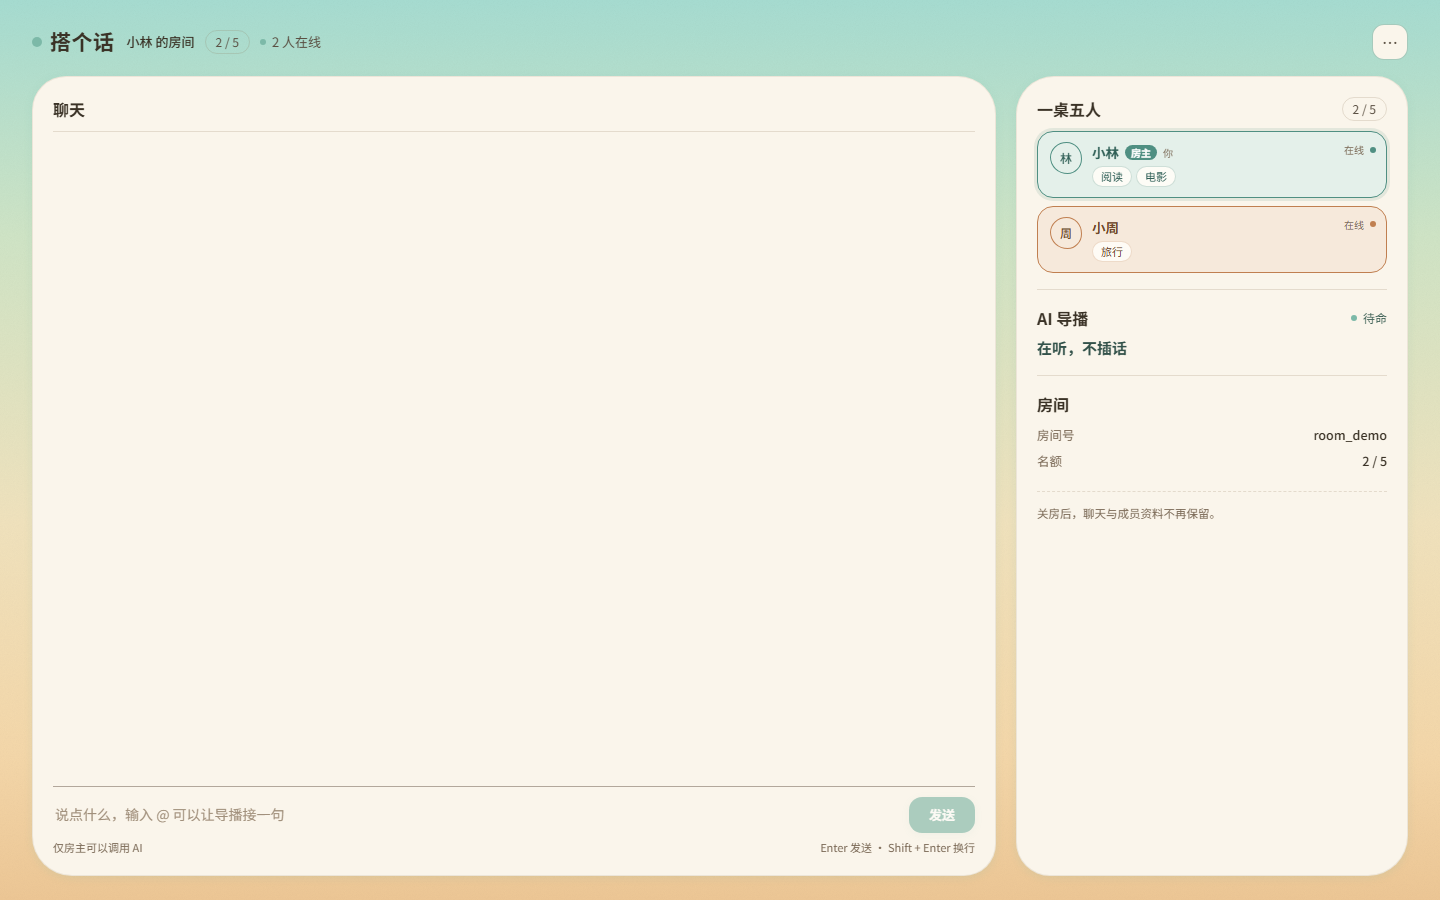
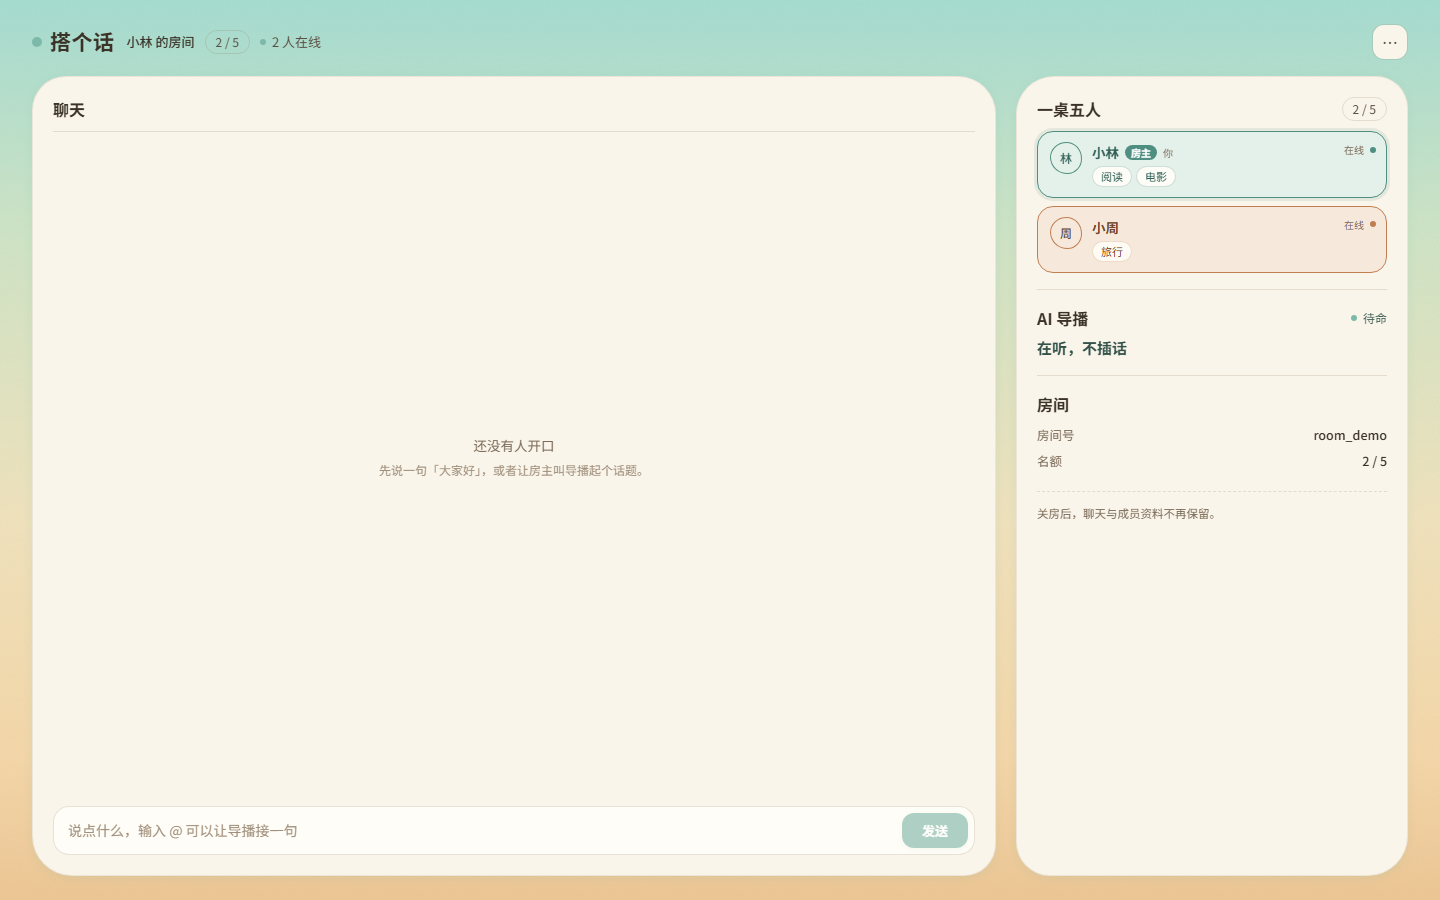
feat(frontend): 输入区加边框容器，去掉底部提示行

Changed region(s): [[0.0312, 0.8711, 0.2188, 0.9644], [0.5625, 0.8711, 0.6875, 0.9644], [0.25, 0.4667, 0.4375, 0.5289]]

diff --git a/frontend/src/features/chat/Composer.tsx b/frontend/src/features/chat/Composer.tsx
@@ -50,7 +50,7 @@ export function Composer({ canMention, disabled, onSend }: ComposerProps) {
         </button>
       )}
 
-      <div className="flex items-center gap-2 border-t-[1.5px] border-[rgba(90,74,58,.45)] pt-2.5">
+      <div className="mt-3 flex items-center gap-2 rounded-[16px] border-[1.5px] border-rule bg-card py-1.5 pl-3.5 pr-1.5 transition-shadow focus-within:border-[rgba(96,166,150,.7)] focus-within:shadow-[0_0_0_4px_rgba(124,185,168,.14)]">
         <input
           ref={inputRef}
           value={value}
@@ -63,21 +63,16 @@ export function Composer({ canMention, disabled, onSend }: ComposerProps) {
             }
           }}
           placeholder={canMention ? '说点什么，输入 @ 可以让导播接一句' : '说点什么'}
-          className="min-w-0 flex-1 bg-transparent px-0.5 py-1.5 text-[14px] text-ink-2 outline-none placeholder:text-faint disabled:opacity-60"
+          className="min-w-0 flex-1 bg-transparent py-1.5 text-[14px] text-ink-2 outline-none placeholder:text-faint disabled:opacity-60"
         />
         <button
           type="button"
           onClick={() => void submit()}
           disabled={disabled || sending || value.trim().length === 0}
-          className="rounded-[13px] bg-sage-deep px-5 py-2 text-[13px] font-semibold text-white shadow-soft transition-colors hover:bg-[#549c8b] disabled:opacity-50"
+          className="rounded-[12px] bg-sage-deep px-5 py-2 text-[13px] font-semibold text-white shadow-soft transition-colors hover:bg-[#549c8b] disabled:opacity-50"
         >
           {sending ? '发送中…' : '发送'}
         </button>
-      </div>
-
-      <div className="mt-1.5 flex justify-between text-[11px] text-muted">
-        <span>{canMention ? '仅房主可以调用 AI' : '成员不能主动调用 AI'}</span>
-        <span>Enter 发送 · Shift + Enter 换行</span>
       </div>
     </div>
   )
